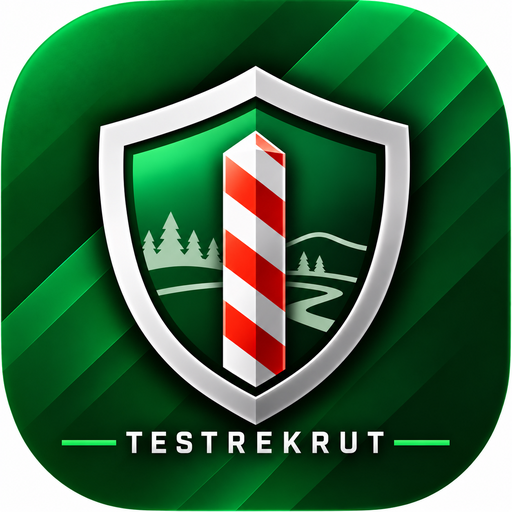
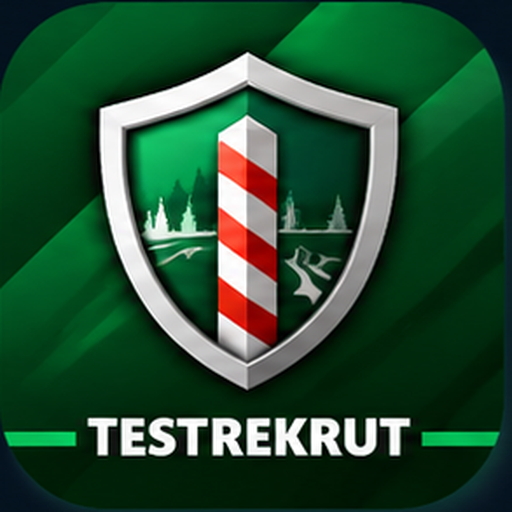
Add files via upload

diff --git a/SG/index.html b/SG/index.html
@@ -10,7 +10,7 @@
 <link rel="manifest" href="manifest.webmanifest">
 <link rel="apple-touch-icon" href="icon-180.png">
 <title>SG — Test wiedzy 200 pytań</title>
-<meta name="app-version" content="2026-09-08-v4">
+<meta name="app-version" content="2026-09-08-v5">
 <style>
 :root{--bg:#050c18;--panel:#071526;--panel2:#0b1b30;--panel3:#10243d;--text:#f5f8fc;--muted:#9eacc0;--green:#22d36b;--green2:#159c4d;--gold:#e4aa3b;--red:#ff4352;--line:#213754;--shadow:0 22px 70px rgba(0,0,0,.55)}
 *{box-sizing:border-box}
@@ -277,7 +277,7 @@ input{font:inherit;color:#fff;background:#09192d;border:1px solid #2b4564;outlin
 </head>
 <body><div class="wrap">
 <div class="top">
-  <div class="brandbox"><img class="brandicon" src="icon-180.png" alt="SG"><div><div class="brand">TEST<span class="green">REKRUT</span></div><div class="subtitle">Testy wiedzy • Straż Graniczna</div></div></div>
+  <div class="brandbox"><img class="brandicon" src="icon-header.png" alt="SG"><div><div class="brand">TEST<span class="green">REKRUT</span></div><div class="subtitle">Testy wiedzy • Straż Graniczna</div></div></div>
   <div class="topchips"><div class="chip greenchip"><span>Baza</span><b>200 pytań</b></div><div class="chip"><span>Tryb</span><b>15 min / 10 pytań</b></div></div>
 </div>
 <div id="app"></div>

diff --git a/SG/sw.js b/SG/sw.js
@@ -1,9 +1,10 @@
-const CACHE = "testrekrut-sg-v4";
+const CACHE = "testrekrut-sg-v5";
 
 const FILES = [
   "./",
   "./index.html",
   "./manifest.webmanifest",
+  "./icon-header.png",
   "./icon-180.png",
   "./icon-512.png",
   "./testrekrut-sg-bg.jpg"
